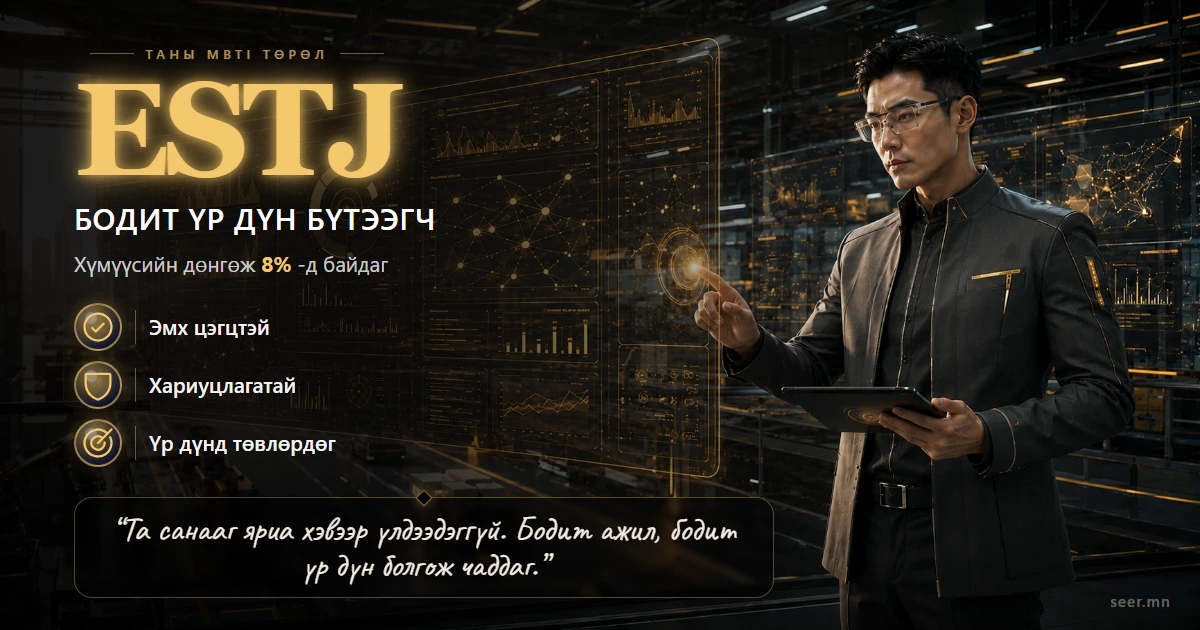
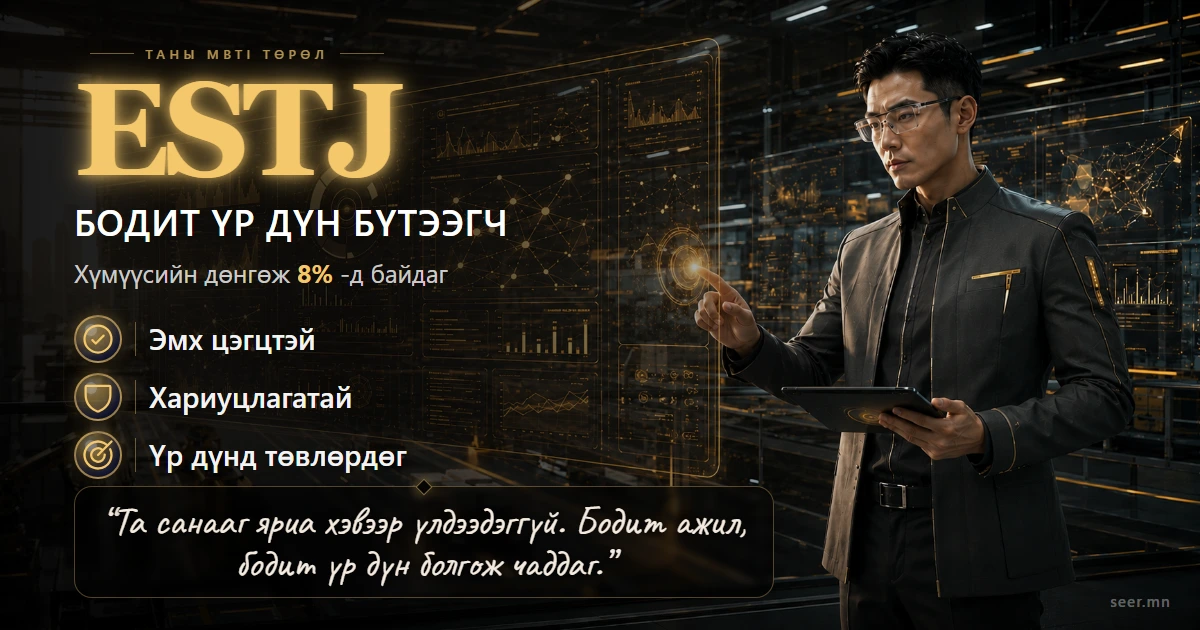
improve facebook og image quality

diff --git a/scripts/export-mbti-og.ts b/scripts/export-mbti-og.ts
@@ -1,9 +1,20 @@
 import { chromium } from "playwright";
-import sharp from "sharp";
 import path from "path";
 import fs from "fs/promises";
 
 async function main() {
+  const outputDirectory = path.join(
+    process.cwd(),
+    "public",
+    "share",
+    "mbti-og-card",
+    "male",
+  );
+
+  await fs.mkdir(outputDirectory, {
+    recursive: true,
+  });
+
   const browser = await chromium.launch();
 
   const page = await browser.newPage({
@@ -11,51 +22,29 @@ async function main() {
       width: 1400,
       height: 900,
     },
-    deviceScaleFactor: 1,
+    deviceScaleFactor: 2,
   });
 
   await page.goto("http://localhost:3000/internal/og-preview/mbti/male/estj", {
     waitUntil: "networkidle",
   });
 
-  await page.evaluate(() => document.fonts.ready);
+  await page.evaluate(async () => {
+    await document.fonts.ready;
+  });
 
   const card = page.locator("#mbti-og-card");
 
-  const tempPath = path.join(
-    process.cwd(),
-    "public",
-    "share",
-    "mbti-og-card",
-    "male",
-    "estj-temp.png",
-  );
-
-  const outputPath = path.join(
-    process.cwd(),
-    "public",
-    "share",
-    "mbti-og-card",
-    "male",
-    "estj-v3.webp",
-  );
+  const outputPath = path.join(outputDirectory, "estj-v4.png");
 
   await card.screenshot({
-    path: tempPath,
+    path: outputPath,
+    type: "png",
   });
-
-  await sharp(tempPath)
-    .resize(1200, 630)
-    .webp({
-      quality: 92,
-    })
-    .toFile(outputPath);
-
-  await fs.unlink(tempPath);
 
   await browser.close();
 
-  console.log("✅ New ESTJ OG image generated");
+  console.log("✅ High-quality ESTJ OG image generated");
   console.log(outputPath);
 }
 

diff --git a/app/internal/og-preview/mbti/[gender]/[type]/page.tsx b/app/internal/og-preview/mbti/[gender]/[type]/page.tsx
@@ -117,12 +117,12 @@ export default async function MbtiOgPreviewPage({ params }: PageProps) {
           </div>
 
           {/* ARCHETYPE */}
-          <div className="mt-[15px] text-[30px] font-semibold uppercase leading-none tracking-[0.025em]">
+          <div className="mt-[15px] text-[36px] font-semibold uppercase leading-none tracking-[0.025em]">
             {template.archetype}
           </div>
 
           {/* RARITY */}
-          <div className="mt-[15px] text-[21px] font-normal text-white/78">
+          <div className="mt-[15px] text-[25px] font-normal text-white/78">
             Хүмүүсийн дөнгөж{" "}
             <span
               className="font-bold"
@@ -192,7 +192,7 @@ export default async function MbtiOgPreviewPage({ params }: PageProps) {
                   />
 
                   {/* TEXT */}
-                  <div className="text-[21px] font-medium leading-none text-white/95">
+                  <div className="text-[29px] font-medium leading-none text-white/95">
                     {strength}
                   </div>
                 </div>
@@ -222,7 +222,7 @@ export default async function MbtiOgPreviewPage({ params }: PageProps) {
 
           {/* QUOTE */}
           <div
-            className="w-full text-center text-[34px] leading-[1.08]"
+            className="w-full text-center text-[40px] leading-[1.05]"
             style={{
               fontFamily: '"Caveat", cursive',
               color: "#f4eadf",

diff --git a/app/share/mbti/[gender]/[type]/page.tsx b/app/share/mbti/[gender]/[type]/page.tsx
@@ -39,7 +39,7 @@ export async function generateMetadata({
   const description = `${template.archetype} — өөрийн MBTI төрлөө мэдээрэй.`;
 
   // Facebook cache bust хийх шинэ OG image URL
-  const imageUrl = `${SITE_URL}/share/mbti-og-card/${safeGender}/${typeSlug}-v3.webp`;
+  const imageUrl = `${SITE_URL}/share/mbti-og-card/${safeGender}/${typeSlug}-v4.png`;
 
   const pageUrl = `${SITE_URL}/share/mbti/${safeGender}/${typeSlug}`;
 
@@ -58,8 +58,8 @@ export async function generateMetadata({
       images: [
         {
           url: imageUrl,
-          width: 1200,
-          height: 630,
+          width: 2400,
+          height: 1260,
           alt: `${safeType} MBTI share image`,
         },
       ],
@@ -89,7 +89,7 @@ export default async function MbtiSharePage({ params }: PageProps) {
   const typeSlug = safeType.toLowerCase();
 
   // Share page дээр мөн шинэ v2 image-г харуулна
-  const imageSrc = `/share/mbti-og-card/${safeGender}/${typeSlug}.webp`;
+  const imageSrc = `/share/mbti-og-card/${safeGender}/${typeSlug}-v4.png`;
 
   return (
     <main className="min-h-screen bg-slate-950 px-5 py-8 text-white">
